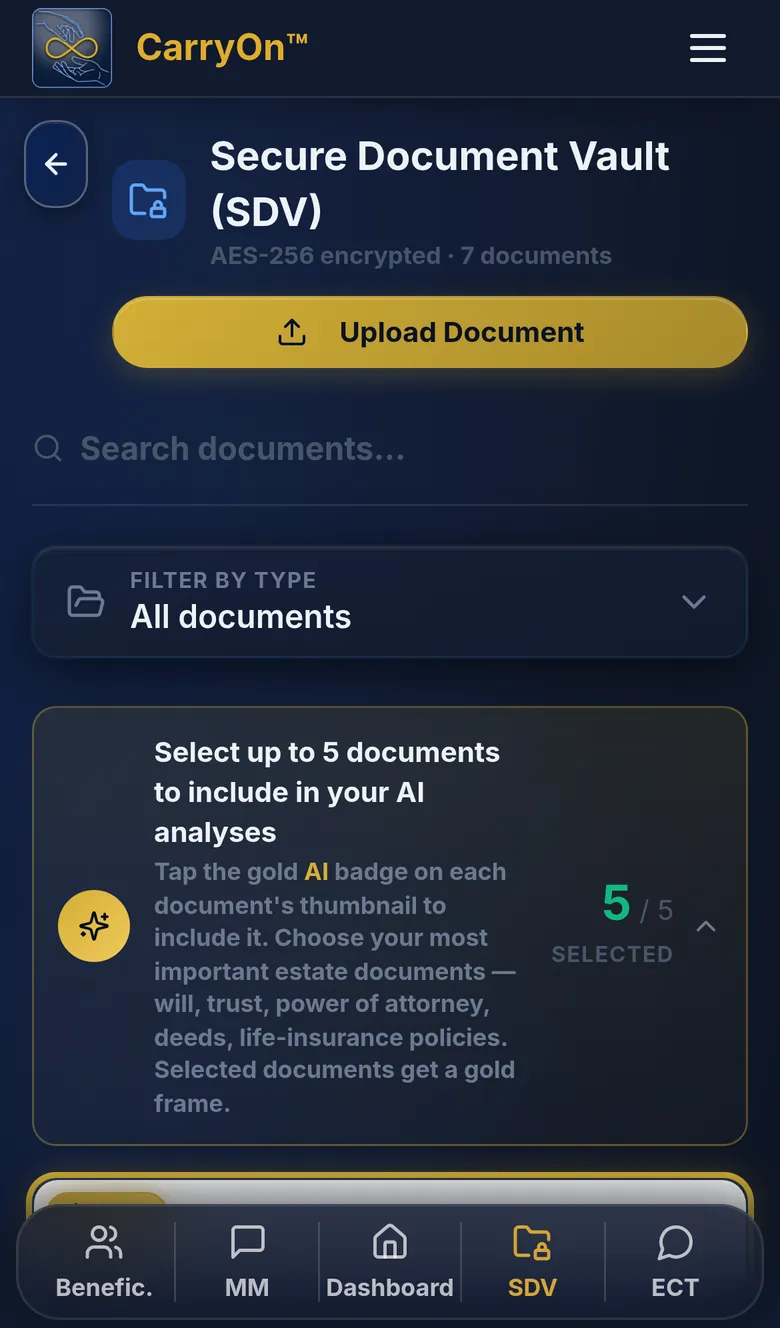
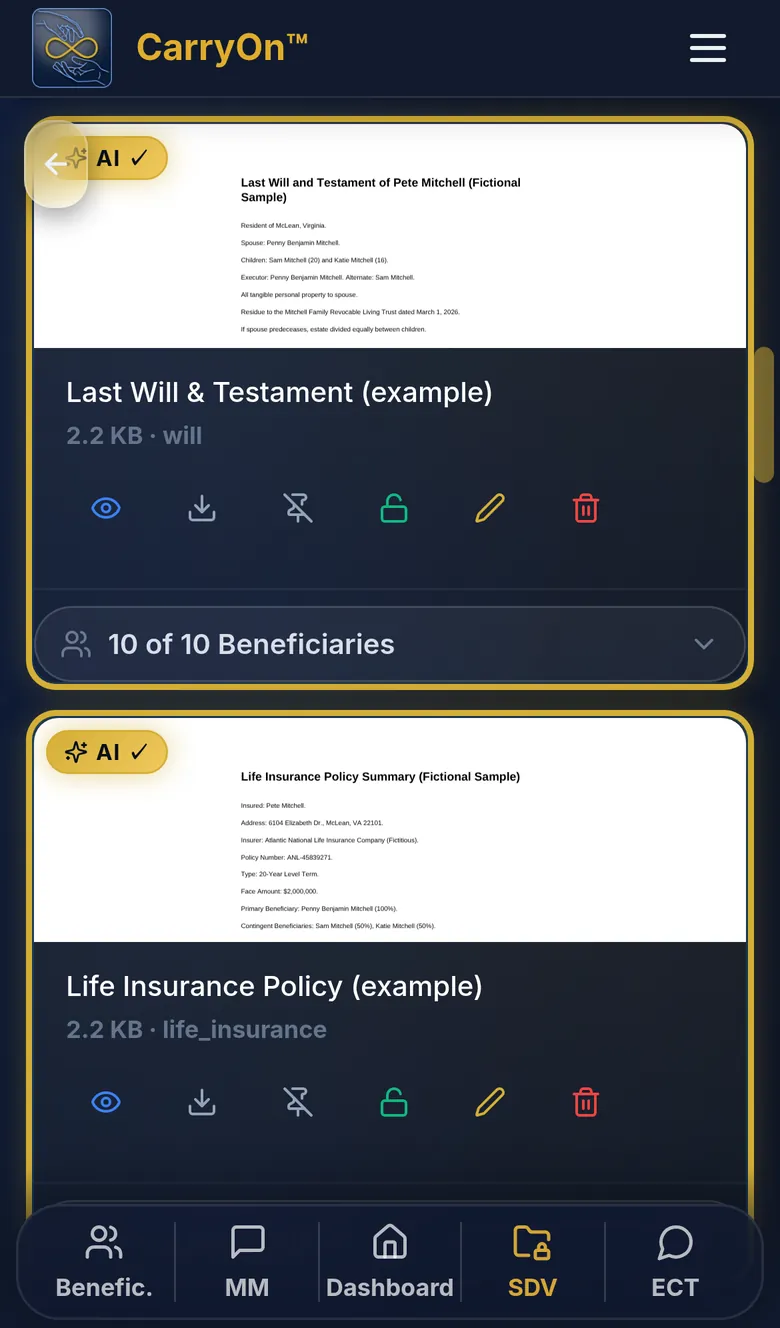
## Phone shots re-framed (VERIFIED on preview, NOT PUSHED) - `m-contacts.webp` ("Who to call first") now opens on the beneficiary tiles — Penny · Primary, Tom · Secondary, Emma · Tertiary, John — and `m-vault.webp` ("Document vault") on the document cards (Last Will & Testament, Life Insurance Polic
Emergent-Commit-Key: 3b2fc7b6af303f383bdf95fc7a3d7c9c2e346eff7221c926f80493d7f9a7cf7a

diff --git a/frontend/public/sw-push.js b/frontend/public/sw-push.js
@@ -15,7 +15,7 @@
 // ── Versioning ──────────────────────────────────────────────────────────────
 // Bump SHELL_VERSION whenever the list of precached shell assets or the
 // caching strategy changes — triggers a cache purge on next SW activation.
-const SHELL_VERSION = 'build-2026-09-19-mu8uxno1';
+const SHELL_VERSION = 'build-2026-09-19-mu8wkfv9';
 const SHELL_CACHE = `carryon-shell-${SHELL_VERSION}`;
 const RUNTIME_CACHE = `carryon-runtime-${SHELL_VERSION}`;
 const API_CACHE = `carryon-api-${SHELL_VERSION}`;

diff --git a/scripts/capture_product_screenshots.py b/scripts/capture_product_screenshots.py
@@ -23,33 +23,38 @@ CHECKLIST_MOBILE_CSS = """@media (max-width: 639px) {
 # Dashboard: start the shot at the Total Family Continuity meter (founder directive, Sep 19 2026) —
 # the welcome line, beneficiary vault banner and onboarding group above it stay out of the preview.
 METER_SELECTORS = '[data-testid="readiness-card"], [data-testid="readiness-card-side"], [data-testid="core-pillars-card"]'
-SCROLL_TO_METER_JS = f"""(() => {{
-  const cards = [...document.querySelectorAll('{METER_SELECTORS}')].filter(e => e.offsetParent !== null);
-  if (!cards.length) return 'no meter card';
+# Phone shots (founder, Sep 19 2026): "Who to call first" starts at the people list, "Document vault" at the document cards.
+PEOPLE_SELECTOR = '[data-testid="beneficiary-tiles"]'
+DOCS_SELECTOR = '[data-testid^="document-"]:not([data-testid="document-vault"])'
+# Scrolls the topmost visible match to just under the fixed/sticky header (window or nearest scroll container).
+SCROLL_TO_JS = """(sel) => {
+  const cards = [...document.querySelectorAll(sel)].filter(e => e.offsetParent !== null);
+  if (!cards.length) return 'no match for ' + sel;
   const el = cards.reduce((a, b) => a.getBoundingClientRect().top <= b.getBoundingClientRect().top ? a : b);
   let scroller = el.parentElement;
-  while (scroller && scroller !== document.body) {{
+  while (scroller && scroller !== document.body) {
     const cs = getComputedStyle(scroller);
     if (/(auto|scroll)/.test(cs.overflowY) && scroller.scrollHeight > scroller.clientHeight + 4) break;
     scroller = scroller.parentElement;
-  }}
+  }
   const useWindow = !scroller || scroller === document.body;
-  el.scrollIntoView({{ block: 'start' }});
+  el.scrollIntoView({ block: 'start' });
   let headerBottom = 0;
-  for (let n = document.elementFromPoint(window.innerWidth / 2, 4); n && n !== document.body; n = n.parentElement) {{
+  for (let n = document.elementFromPoint(window.innerWidth / 2, 4); n && n !== document.body; n = n.parentElement) {
     const pos = getComputedStyle(n).position;
-    if (pos === 'fixed' || pos === 'sticky') {{ headerBottom = Math.max(headerBottom, n.getBoundingClientRect().bottom); break; }}
-  }}
+    if (pos === 'fixed' || pos === 'sticky') { headerBottom = Math.max(headerBottom, n.getBoundingClientRect().bottom); break; }
+  }
   const delta = el.getBoundingClientRect().top - headerBottom - 12;
   if (useWindow) window.scrollBy(0, delta); else scroller.scrollTop += delta;
-  return `${{el.dataset.testid}} via ${{useWindow ? 'window' : 'container'}} headerBottom=${{Math.round(headerBottom)}}`;
-}})()"""
+  return `${el.dataset.testid} via ${useWindow ? 'window' : 'container'} headerBottom=${Math.round(headerBottom)}`;
+}"""
+# (name, path, text to click first, scroll target on desktop, scroll target on phone)
 PAGES = [
-    ("dashboard", "/dashboard", None, True),
-    ("messages", "/messages", None, False),
-    ("vault", "/vault", None, False),
-    ("contacts", "/beneficiaries", None, False),
-    ("checklist", "/checklist", "Critical", False),
+    ("dashboard", "/dashboard", None, METER_SELECTORS, METER_SELECTORS),
+    ("messages", "/messages", None, None, None),
+    ("vault", "/vault", None, None, DOCS_SELECTOR),
+    ("contacts", "/beneficiaries", None, None, PEOPLE_SELECTOR),
+    ("checklist", "/checklist", "Critical", None, None),
 ]
 ONLY = {s for s in os.environ.get("SHOT_ONLY", "").split(",") if s}
 if ONLY:
@@ -76,7 +81,8 @@ with sync_playwright() as p:
     page.wait_for_url(lambda u: "/login" not in u, timeout=60000)
     page.wait_for_timeout(2500)
     print("logged in ->", page.url, "viewport", vw, vh)
-    for name, path, click_text, to_meter in PAGES:
+    for name, path, click_text, desktop_target, mobile_target in PAGES:
+        target = mobile_target if MOBILE else desktop_target
         try:
             page.goto(f"{BASE}{path}", wait_until="networkidle", timeout=60000)
         except PlaywrightTimeoutError:
@@ -89,8 +95,8 @@ with sync_playwright() as p:
             page.get_by_text(click_text, exact=False).first.click()
             page.wait_for_timeout(800)
         hidden += page.evaluate(hide_js)
-        if to_meter:
-            print("scroll:", page.evaluate(SCROLL_TO_METER_JS))
+        if target:
+            print("scroll:", page.evaluate(SCROLL_TO_JS, target))
             page.wait_for_timeout(700)
         page.wait_for_timeout(500)
         out = f"{OUT}/{PREFIX}{name}.png"

diff --git a/memory/PRD.md b/memory/PRD.md
@@ -574,6 +574,8 @@ bug — fix it in the preview DB immediately (snippet in
 - Hardcoded `rgba(212,175,55,…)` → `var(--gold-rgb)` sweep.
 
 ### Last verified end-to-end working item
+**Sep 19 2026 (night, later) — Phone product shots start at the content (NOT PUSHED).** `m-contacts.webp` opens on the beneficiary tiles, `m-vault.webp` on the document cards (header / buttons / explainers scrolled out; desktop unchanged). `capture_product_screenshots.py` `PAGES` rows carry desktop + phone scroll targets. Verified on the `/home` phone frame; check.sh ALL CLEAR. **Founder next**: push → Vercel → phone → "See inside CarryOn" → "Who to call first" / "Document vault".
+
 **Sep 19 2026 (latest, night) — `/benefactor` paid-traffic acquisition page + Premium tag (NOT PUSHED).** New ad destination `pages/BenefactorPage.js` + `components/benefactor/*`, copy in `copy/siteCopyBenefactor.js` (Site Copy → "Benefactor landing page"). Logo + Sign In only; single Premium card from the live catalog with the live `trial_days` (10 on prod, preview mirrored); `?v=all` = three-plan variant; 5th "Messages for later" preview tab (kept on the homepage too, founder decision); free CTAs → `/signup`, "Subscribe today" → `/start?plan=premium&cycle=monthly`. Signups from the page carry `preferred_plan` + `landing_page` (`UserCreate` → `users` doc → `/auth/me`); `SubscriptionManagement` + `SubscriptionPaywall` highlight that plan. iteration_210 backend 5/5, frontend 100 %; check.sh ALL CLEAR. **Founder next**: push → open `/benefactor` logged out (desktop + phone), Messages tab, throwaway signup → `/subscription` opens on Premium; send the first ad to `/benefactor?utm_source=…`.
 
 **Sep 19 2026 (latest, PM) — Homepage product screenshots re-captured (NOT PUSHED).** The 8 `/screenshots/*.webp` files (hero shot, "See inside CarryOn" tabs, How-It-Works phone) were shot Sep 16 from the old marketing-branch build; re-captured from `petemitchell` on carryon.us (People/Access/Money/Action dashboard, 72 % Total Family Continuity). Static by design — re-run `scripts/capture_product_screenshots.py` (see `public/screenshots/README.md`) whenever the demo account or UI changes. check.sh ALL CLEAR. **Founder next**: push → Vercel → reload the homepage and check the four preview tabs on desktop + phone.

diff --git a/memory/CHANGELOG.md b/memory/CHANGELOG.md
@@ -1,6 +1,13 @@
 # CarryOn — Changelog
 
 
+## Sep 19, 2026 (night, later) — Phone product shots start at the content — VERIFIED, NOT PUSHED
+
+- `m-contacts.webp` ("Who to call first", phone) now opens on the **beneficiary tiles** (Penny · Primary, Tom · Secondary, Emma · Tertiary, John) and `m-vault.webp` ("Document vault", phone) on the **document cards** (Last Will & Testament, Life Insurance Policy) — page header, Add / Upload buttons and explainer cards are scrolled out. Desktop shots unchanged. Re-captured from `petemitchell` on carryon.us.
+- `scripts/capture_product_screenshots.py`: `PAGES` rows now carry a desktop and a phone scroll target (`SCROLL_TO_JS(sel)` scrolls the topmost visible match under the fixed header); phone targets `[data-testid="beneficiary-tiles"]` and the first `[data-testid^="document-"]` card. Only account-specific nudges are hidden — the floating mobile back button stays visible over the first card's corner because that is what the phone really shows. README updated; check.sh ALL CLEAR.
+- **Founder next**: push → Vercel → on the phone, open carryon.us, "See inside CarryOn" → "Who to call first" and "Document vault".
+
+
 ## Sep 19, 2026 (latest) — `/benefactor` paid-traffic acquisition page + Premium tag (iteration_210) — VERIFIED, NOT PUSHED
 
 - **New route `/benefactor`** (`pages/BenefactorPage.js`, `components/benefactor/*`): one-job landing page for ads — logo + Sign In only (no marketing menu), PROBLEM → PROMISE → PROOF → PAYOFF → PRICE → CTA spine, tiny legal-only footer, `noindex` (prerendered for link previews, not in the sitemap). Every string is founder-editable in Site Copy → "Benefactor landing page" (`copy/siteCopyBenefactor.js`, 50 fields, `{days}` filled live from `trial_days`).

diff --git a/frontend/public/screenshots/README.md b/frontend/public/screenshots/README.md
@@ -15,7 +15,10 @@ Continuity 72%, 10 beneficiaries, 7 documents, 59-item IAC).
 `contacts` = `/beneficiaries` page ("Who to call first" tab). `checklist` = `/checklist` with the
 "Critical – Do Immediately" group expanded. `dashboard` starts at the **Total Family Continuity
 meter** (founder directive, Sep 19 2026) — the welcome line, beneficiary vault banner and onboarding
-group above it are scrolled out of frame, on both desktop and phone.
+group above it are scrolled out of frame, on both desktop and phone. **Phone shots** of `contacts`
+and `vault` start at the **people list** / the **document cards** (founder, Sep 19 2026) — the page
+header, Add / Upload buttons and explainer cards are scrolled out; desktop shots keep the header.
+Scroll targets per page live in `PAGES` in the capture script (desktop target, phone target).
 
 ## Regenerate (whenever the demo account or the product UI changes)
 ```bash
